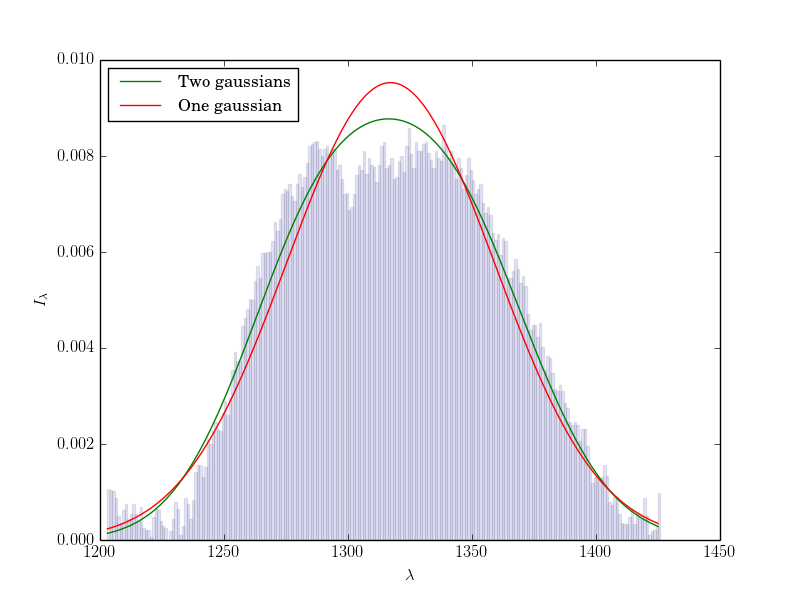
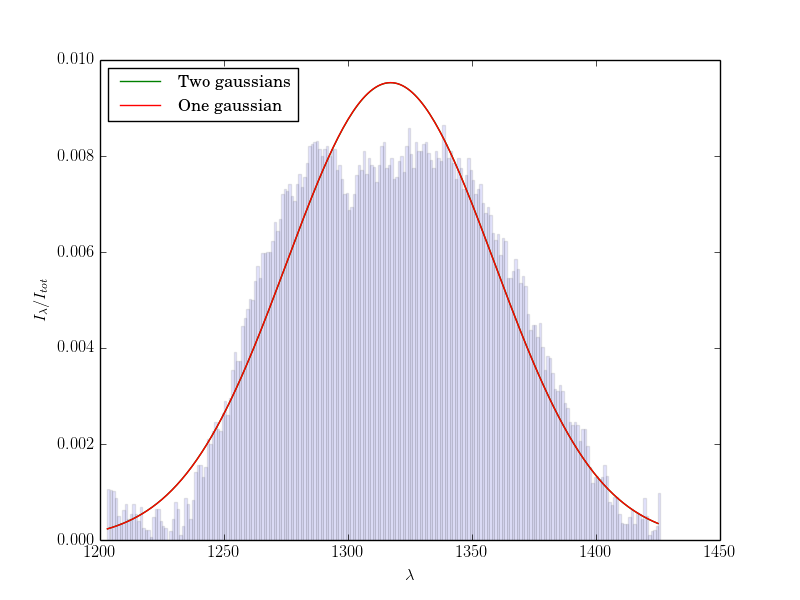
Set initial guesses for mean to [min,max]

diff --git a/Chapter4/data4hackmaybe/gauss_mixture.py b/Chapter4/data4hackmaybe/gauss_mixture.py
@@ -19,10 +19,13 @@ def fit_gaussian_mixture(x,Ngauss,Niterations=10):
 	x = x[:,np.newaxis]
 	
 	#Guess for the mixture parameters
-	if(len(x)!=2):
-		mu_guess = x[np.random.randint(0,len(x),Ngauss),0]
-	else:
+	if(Ngauss==2):
 		mu_guess = np.array([x.min(),x.max()])
+		print mu_guess
+	elif(Ngauss==1):
+		mu_guess = np.array([x.mean()])
+	else:
+		mu_guess = x[np.random.randint(0,len(x),Ngauss),0]
 	
 	sigma2_guess = np.ones(Ngauss)*x.var()
 	alpha_guess = np.ones(Ngauss)*(1.0/Ngauss)
@@ -123,7 +126,7 @@ pdf = mixture_pdf(p,a,m,np.sqrt(s))
 plt.plot(p,pdf,label="One gaussian")
 
 plt.xlabel("$\lambda$")
-plt.ylabel("$I_\lambda$")
+plt.ylabel("$I_\lambda/I_{tot}$")
 plt.legend(loc="upper left")
 
 plt.savefig("spectral2.png")
